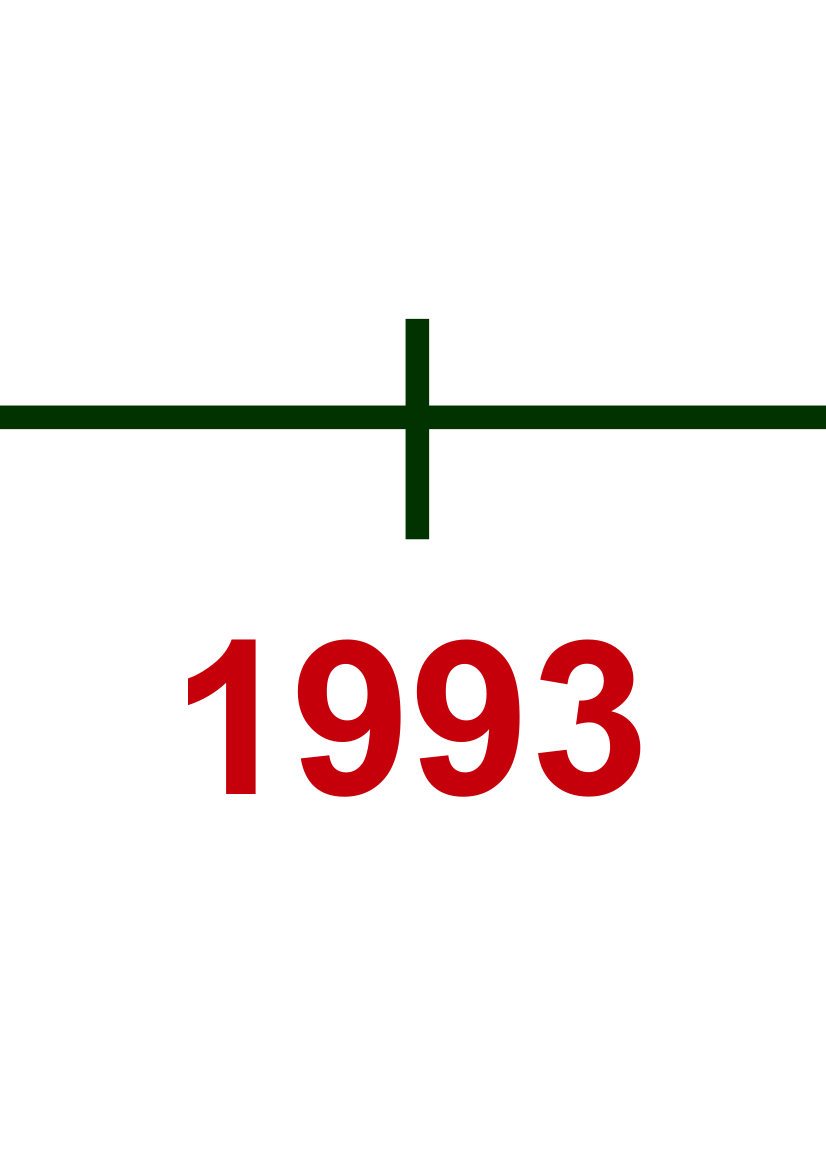
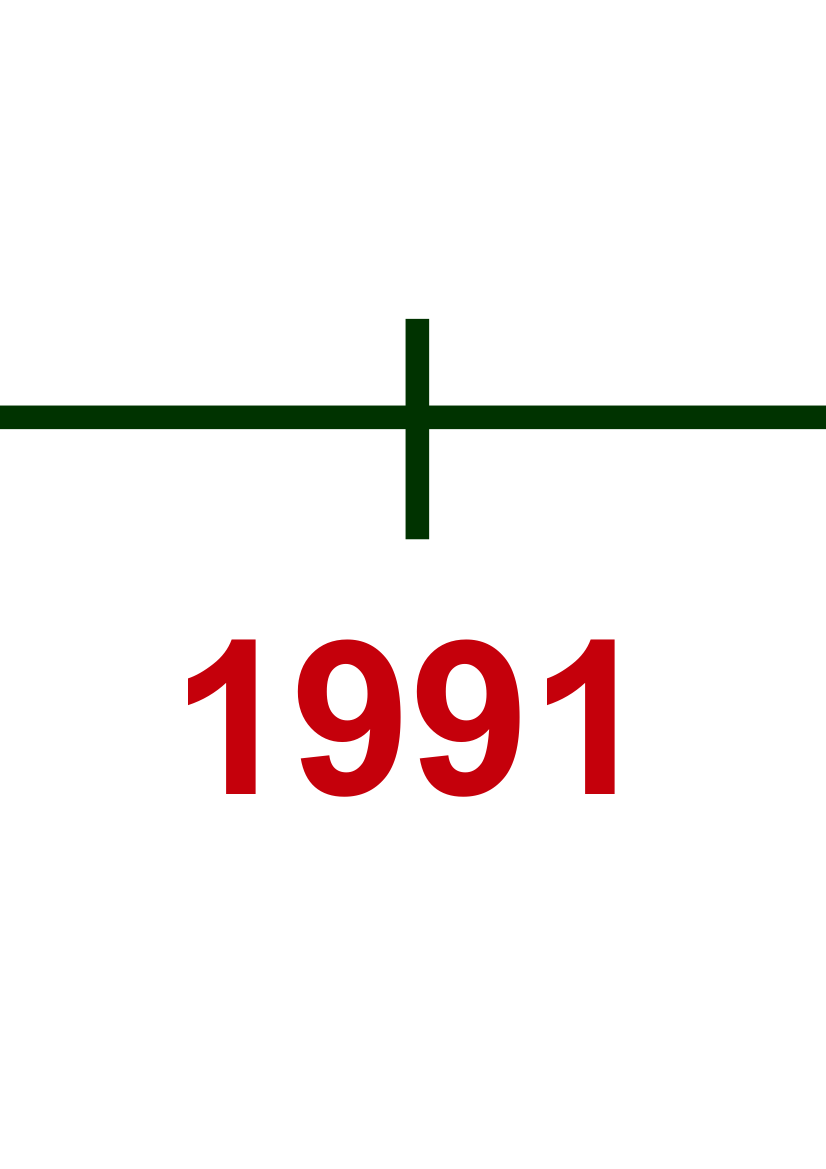
Ausgewähltes Jahr timeline jetzt rot!

Changed region(s): [[0.6356, 0.5235, 0.7869, 0.6775]]

diff --git a/src/com/example/nudelvisualization/client/GeoMapVisualization.java b/src/com/example/nudelvisualization/client/GeoMapVisualization.java
@@ -236,13 +236,15 @@ public class GeoMapVisualization extends Visualization {
 	public void createTimeline(){
 		int startYear = 1990;
 		int endYear = 2011;
+
 		for (int i = startYear; i <= endYear;i++){
-			//if (Integer.toString(i).equals(config.getSelectedYearsList().get(0))){
-				//yearsButton.add(new Image(Integer.toString(i)+"r.png"));	
-			//}else{
+			if (config.getSelectedYearsList().size() == 1 && Integer.toString(i).equals(config.getSelectedYearsList().get(0))){
+				yearsButton.add(new Image(Integer.toString(i)+"r.png"));	
+			}else{
 				yearsButton.add(new Image(Integer.toString(i)+".png"));
+			}
 		}
-		//}
+		
 		for (int j = 0; j<yearsButton.size(); j++){
 			yearsButton.get(j).setPixelSize(45, 50);	
 		}
